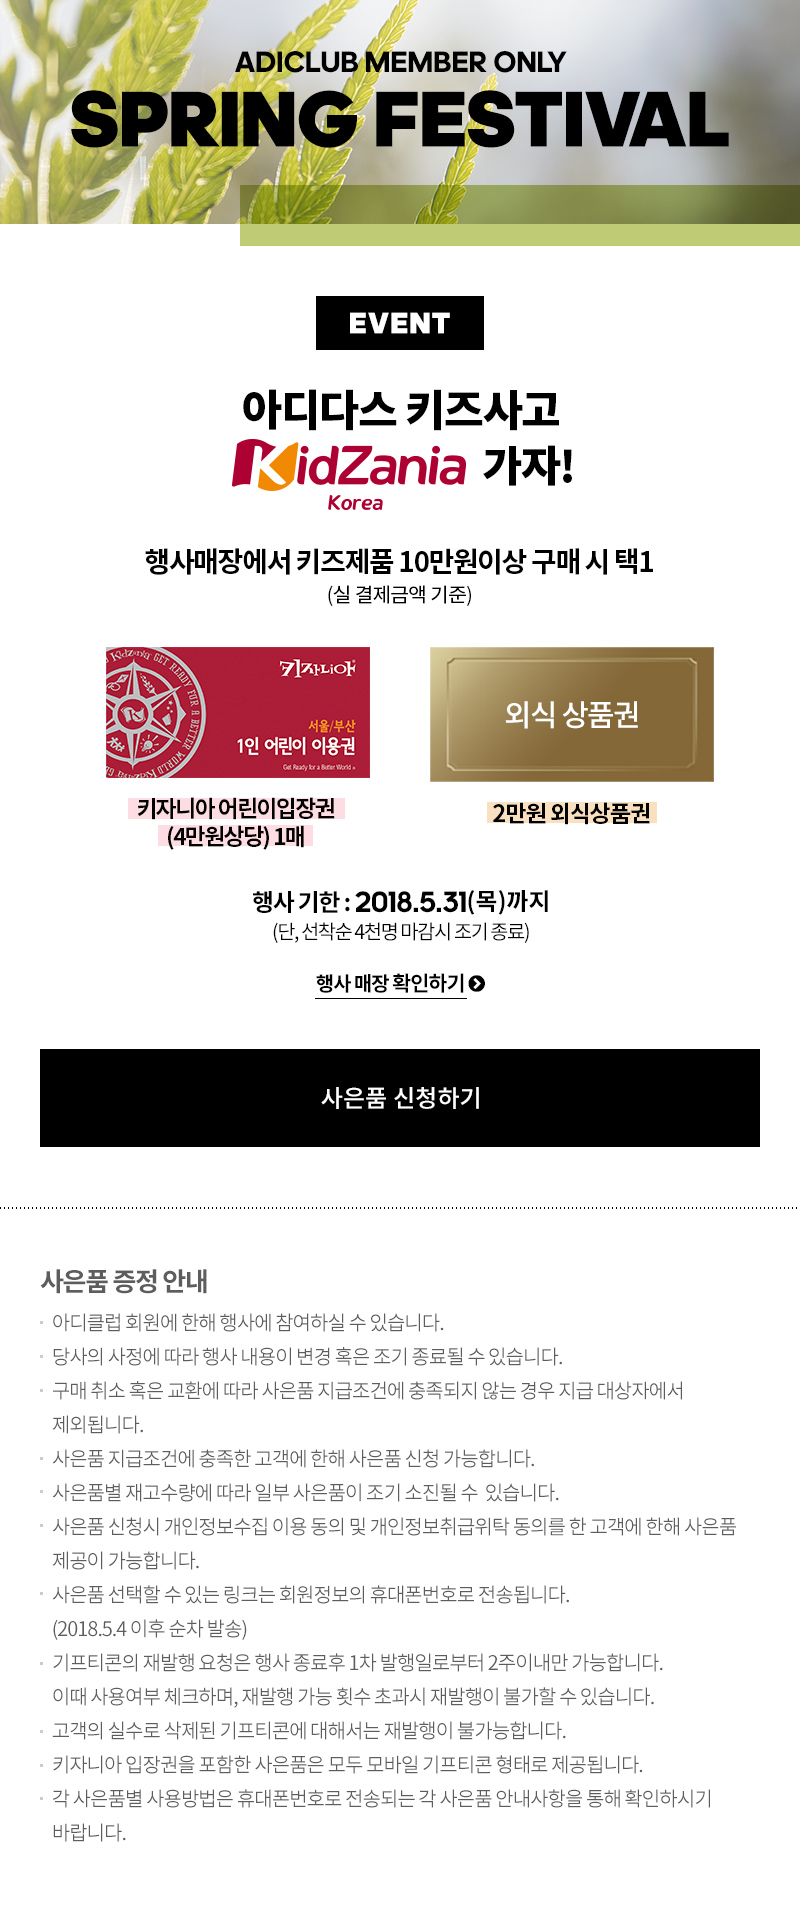
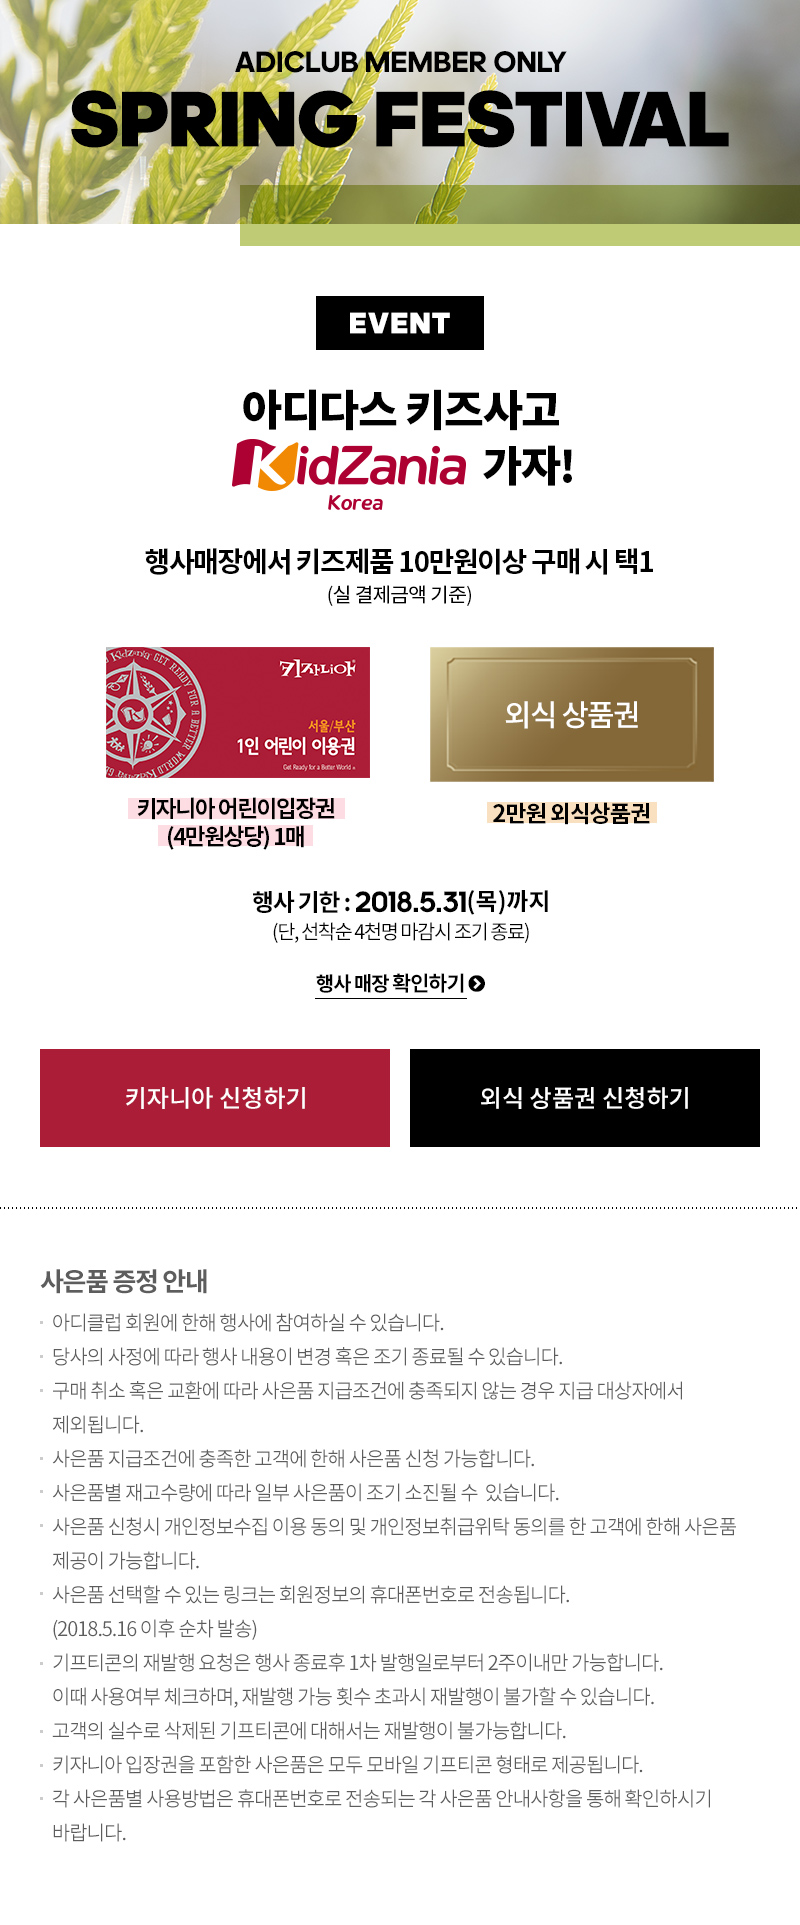
키자니아 수정

Changed region(s): [[0.0312, 0.5299, 0.8438, 0.6234], [0.1562, 0.8416, 0.3125, 0.8727]]

diff --git a/app/html/adidas/campaign/4405/index.html b/app/html/adidas/campaign/4405/index.html
@@ -446,10 +446,11 @@
 
                 <!-- 작업영역 -->
 				<div style="position:relative" class="adiclub_event">
-					<img src="http://image.adidas.co.kr/upload/campaign/adidas/4405/m/event-02.jpg" alt="" style="width:100%;">
+					<img src="http://image.adidas.co.kr/upload/campaign/adidas/4405/m/event-02.jpg" alt="" style="width:100%;">					
 
 					<a href="http://shop.adidas.co.kr/upload/storelist/index.html?spring_evt02" style="display:inline-block;position: absolute;top:50.3%;left:35%;width:30%;height:2%;text-indent:-5000px;">매장보기</a>                    
-					<a href="#" style="display:inline-block;position: absolute;top:54.5%;left:5%;width:90%;height:5%;text-indent:-5000px;">신청하기</a>                    
+					<a href="#" style="display:inline-block;position: absolute;top:54.5%;left:5%;width:44%;height:5%;text-indent:-5000px;">키자니아 신청하기</a>                    
+					<a href="#" style="display:inline-block;position: absolute;top:54.5%;right:5%;width:44%;height:5%;text-indent:-5000px;">외식 상품권 신청하기</a>                    
 				</div>
 				<!-- 작업영역 끝 -->
 
